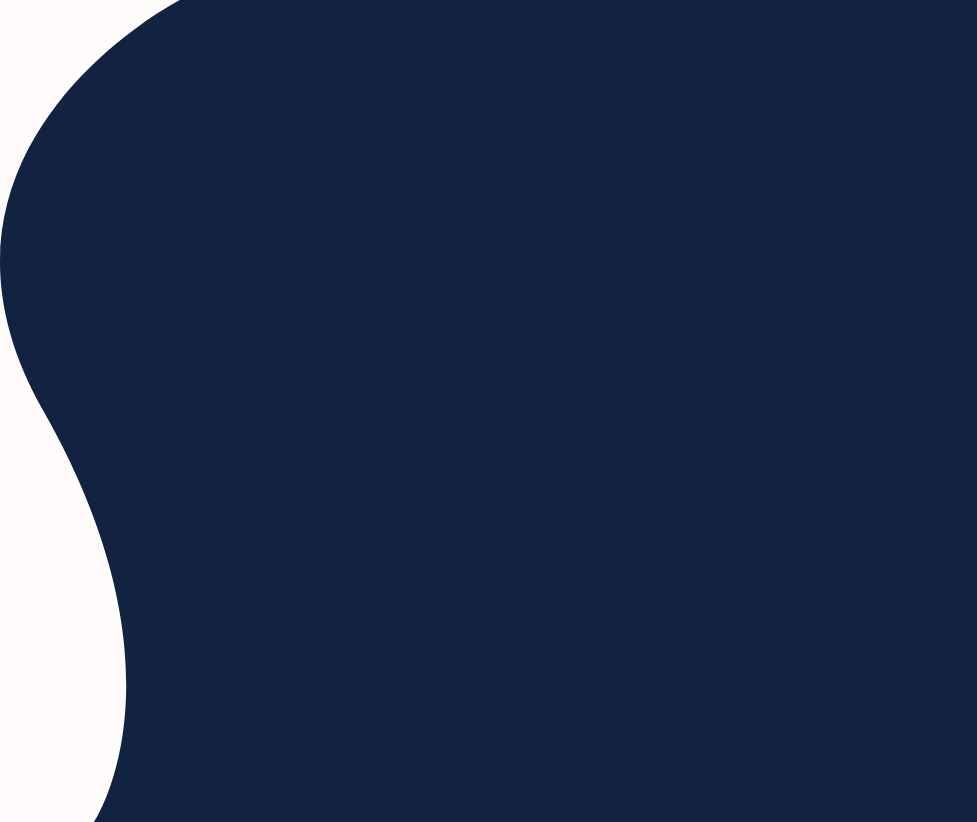
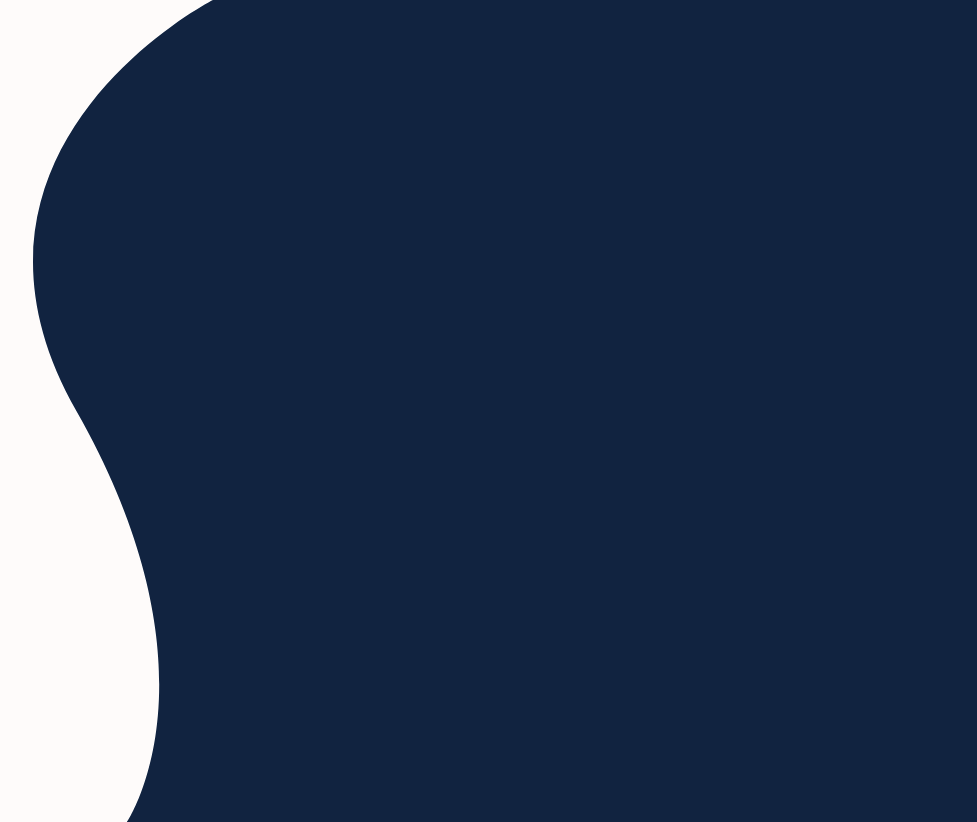
added new layout

Changed region(s): [[0.0, 0.0, 0.2149, 1.0]]

diff --git a/src/components/SecondSection.vue b/src/components/SecondSection.vue
@@ -1,0 +1,86 @@
+<template>
+  <div class="second-section">
+    <div class="second-section-left">
+      <p>
+        Lorem ipsum dolor sit amet, consectetur adipis cing elit, sed do eiusmod
+        tempor incididunt ut labore et dolore magna aliqua. Ut enim ad minim
+        veniam, quis nostrud exercitation ullamco laboris nisi ut aliquip ea
+        commodo consequat. Duis aut dolor in reprehenderit in voluptate velit
+        esse cillum dolore eu fugiat nulla pariatur. Excepteur occaecat
+        cupidatat non proident, sunt in culpa qui officia deserunt mollit anim
+        id est laborum
+      </p>
+    </div>
+
+    <div class="second-section-center">
+      <img class="coffee" src="../../public/img/Coffee2.png" alt="" />
+    </div>
+    <div class="second-section-right">
+      <h2>Cold Coffees</h2>
+      <Button />
+    </div>
+  </div>
+</template>
+
+<script>
+import Button from "@/components/Button.vue";
+export default {
+  name: "SecondSection",
+  components: {
+    Button,
+  },
+};
+</script>
+
+<style scoped>
+.second-section {
+  display: flex;
+  justify-content: space-between;
+  align-items: center;
+  height: 100vh;
+  background-color: #fefbfa;
+  background-image: url("../../public/img/Shape1.png");
+  background-repeat: no-repeat;
+  background-position: left;
+}
+
+.second-section-left {
+  width: 500px;
+}
+
+.second-section-left p {
+  color: #fff;
+  font-family: "Noto Sans", sans-serif;
+  font-weight: 100;
+  text-align: left;
+  line-height: 2.2rem;
+  padding-left: 3rem;
+  font-size: 1.3rem;
+}
+
+.second-section-center {
+  width: 300px;
+ padding-right: 30rem;
+}
+
+.second-section-right {
+  width: 350px;
+  margin-right: 3rem;
+  display: flex;
+  flex-direction: column;
+  align-items: flex-end;
+  
+}
+
+.second-section-right h2{
+  width: 350px;
+  font-family: "Cormorant Upright", serif;
+  font-style: italic;
+  color: #1d2440;
+  font-size: 8rem;
+  line-height: 6.5rem;
+  text-align: right;
+  padding-bottom: 6rem;
+}
+
+</style>

diff --git a/src/components/ThirdSection.vue b/src/components/ThirdSection.vue
@@ -1,14 +1,14 @@
 <template>
-  <div class="first-section">
-    <div class="first-section-left">
-      <h2>Dark Coffees</h2>
+  <div class="third-section">
+    <div class="third-section-left">
+      <h2>Hot Coffees</h2>
       <Button />
     </div>
 
-    <div class="first-section-center">
-      <img class="coffee" src="../../public/img/Coffee1.png" alt="" />
+    <div class="third-section-center">
+      <img class="coffee" src="../../public/img/Coffee3.png" alt="" />
     </div>
-    <div class="first-section-right">
+    <div class="third-section-right">
       <p>
         Lorem ipsum dolor sit amet, consectetur adipis cing elit, sed do eiusmod
         tempor incididunt ut labore et dolore magna aliqua. Ut enim ad minim
@@ -25,7 +25,7 @@
 <script>
 import Button from "@/components/Button.vue";
 export default {
-  name: "FirstSection",
+  name: "ThirdSection",
   components: {
     Button,
   },
@@ -33,24 +33,23 @@ export default {
 </script>
 
 <style scoped>
-.first-section {
+.third-section {
   display: flex;
   justify-content: space-between;
   align-items: center;
   height: 100vh;
   background-color: #fefbfa;
-  background-image: url("../../public/img/Shape.png");
+  background-image: url("../../public/img/Shape2.png");
   background-repeat: no-repeat;
-  /* background-size: contain; */
   background-position: right;
 }
 
-.first-section-left {
+.third-section-left {
   width: 350px;
   margin-left: 3rem;
 }
 
-.first-section-left h2 {
+.third-section-left h2 {
   width: 350px;
   font-family: "Cormorant Upright", serif;
   font-style: italic;
@@ -60,15 +59,15 @@ export default {
   padding-bottom: 6rem;
 }
 
-.first-section-center {
+.third-section-center {
   width: 300px;
 }
 
-.first-section-right {
+.third-section-right {
   width: 500px;
 }
 
-.first-section-right p {
+.third-section-right p {
   color: #fff;
   font-family: "Noto Sans", sans-serif;
   font-weight: 100;

diff --git a/src/App.vue b/src/App.vue
@@ -2,16 +2,22 @@
   <TheHeader />
   <router-view />
   <FirstSection />
+  <SecondSection />
+  <ThirdSection />
 </template>
 
 <script>
 import TheHeader from "@/components/TheHeader.vue";
-import FirstSection from "@/components/FirstSection.vue"
+import FirstSection from "@/components/FirstSection.vue";
+import SecondSection from "@/components/SecondSection.vue"
+import ThirdSection from "@/components/ThirdSection.vue"
 
 export default {
   components: {
     TheHeader,
-    FirstSection
+    FirstSection,
+    SecondSection,
+    ThirdSection
   },
 };
 </script>
